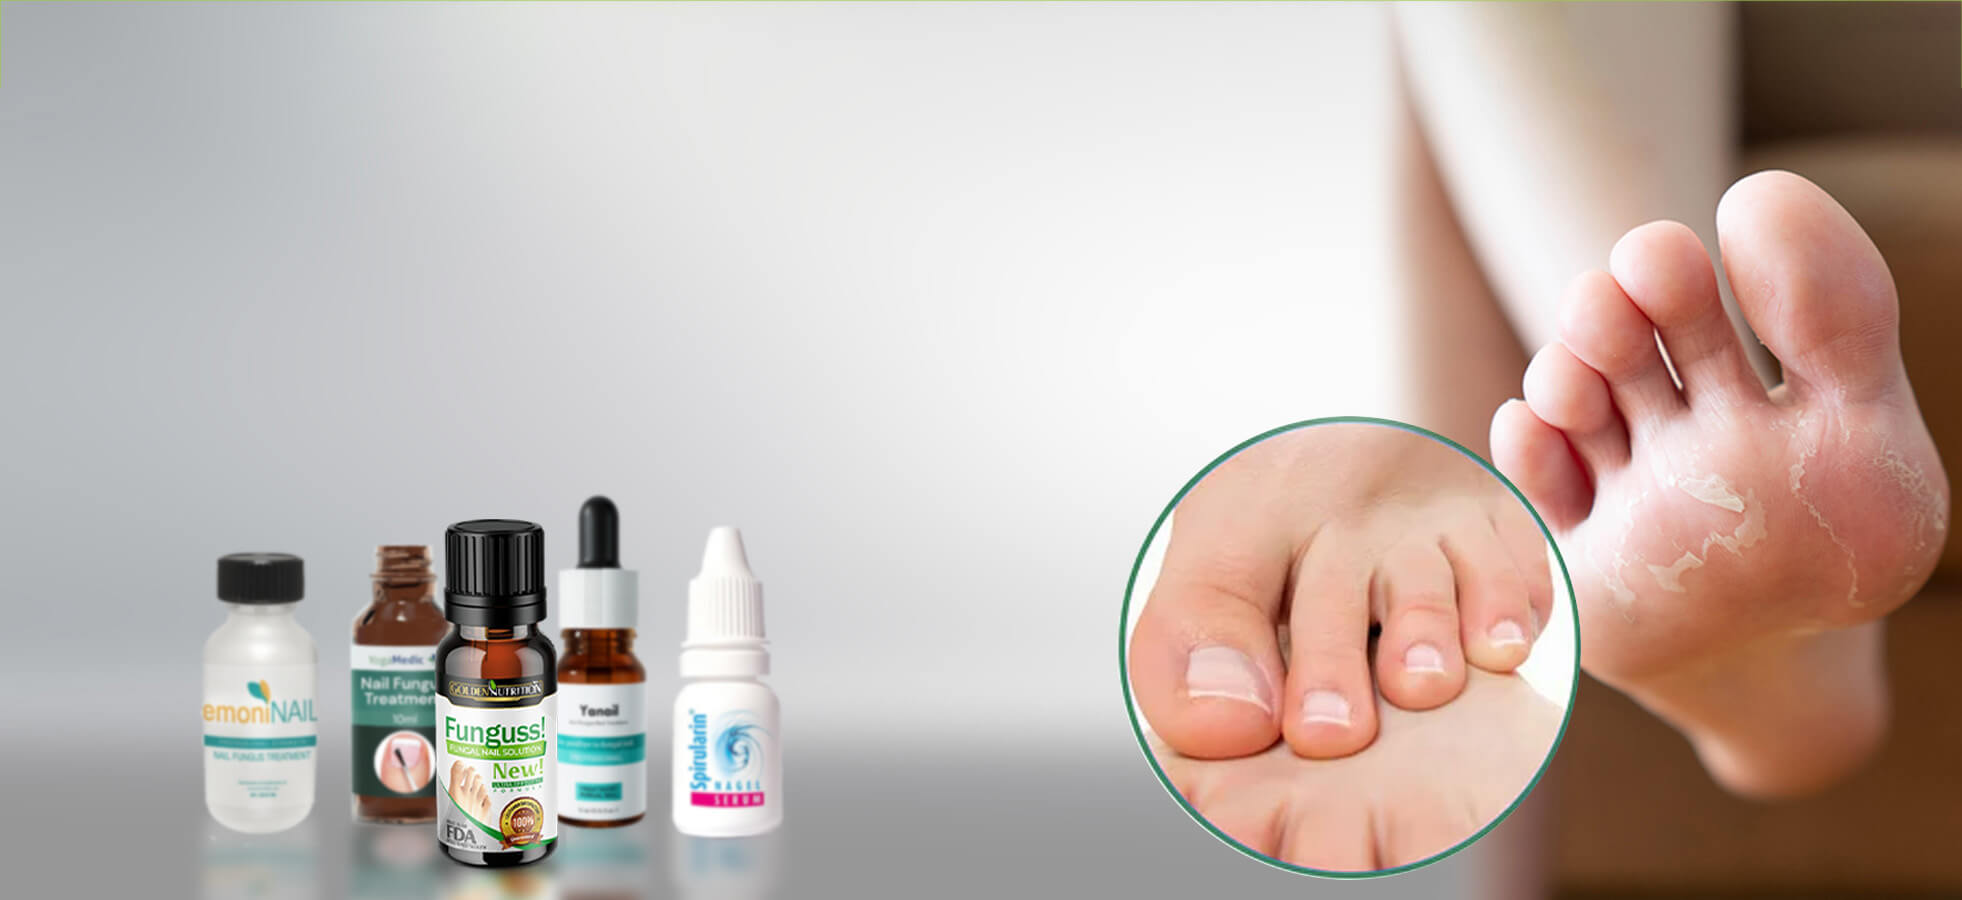
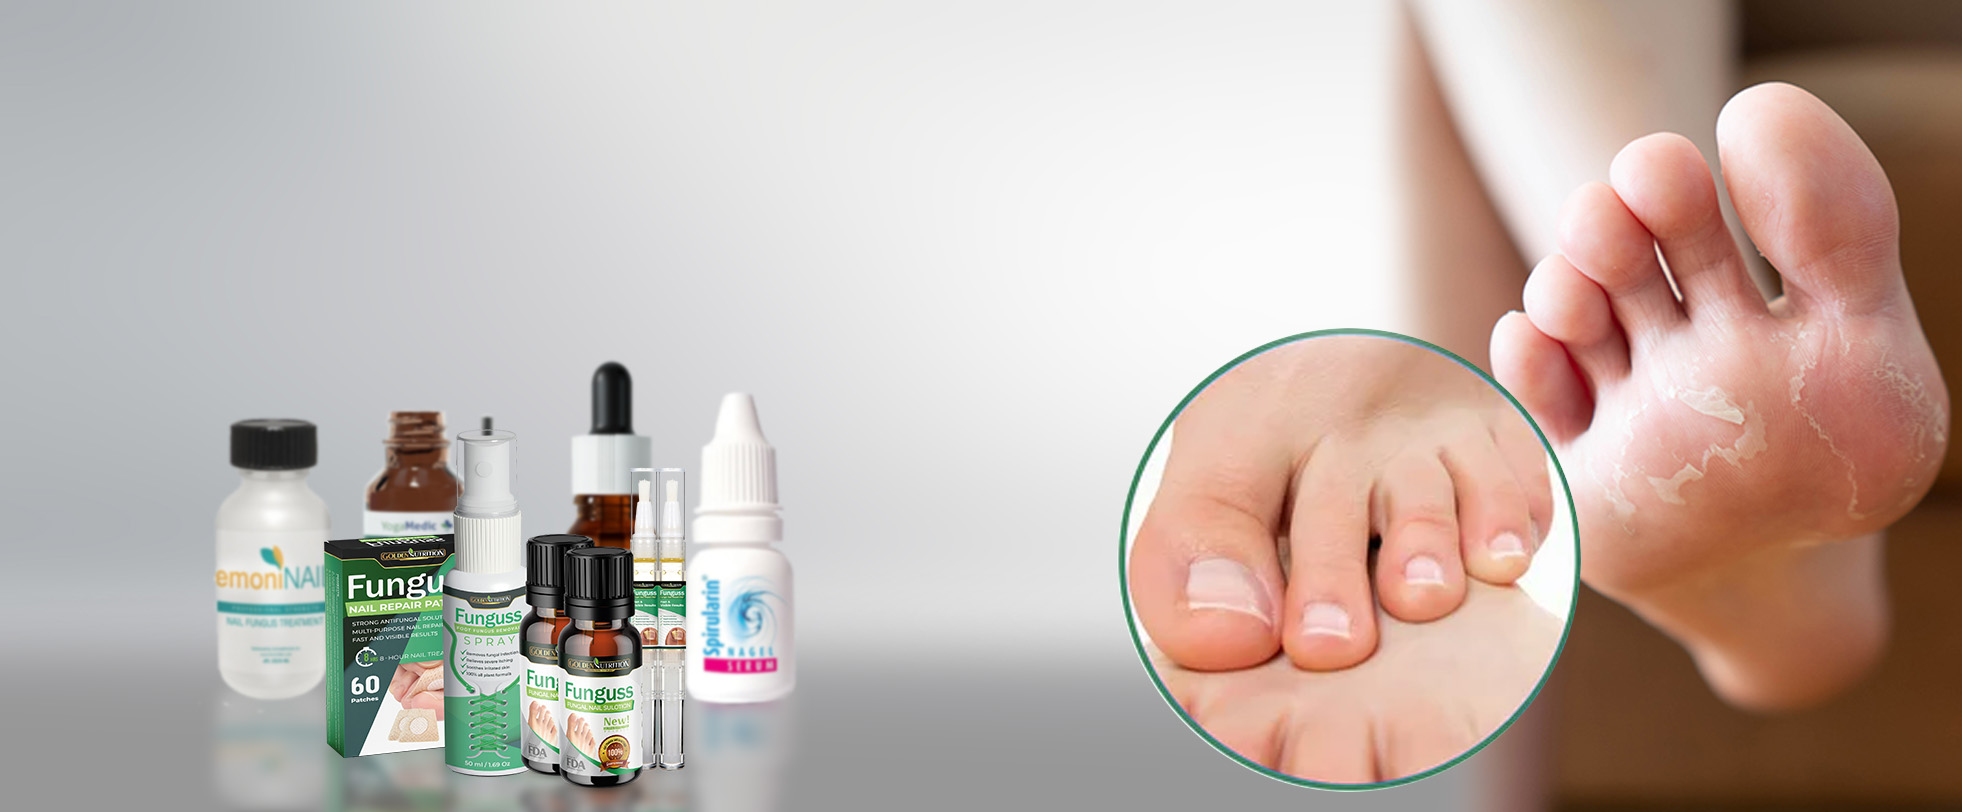
Add the new info for all-in-one pack

Changed region(s): [[0.5596, 0.0, 1.0, 0.9852], [0.0933, 0.431, 0.4042, 1.0]]

diff --git a/src/components/main/ChosenProduct/chosenProduct.jsx b/src/components/main/ChosenProduct/chosenProduct.jsx
@@ -45,7 +45,7 @@ const ChosenProduct = () => {
                         <CardMedia
                             component="img"
                             height="170"
-                            image='funguss.png'
+                            image='funguss.webp'
                             alt='Golden Nutrition Funguss'
                             sx={{
                                 width: "90%",
@@ -74,7 +74,7 @@ const ChosenProduct = () => {
                             <Box sx={{ display: { xs: 'block', md: 'none' }, position: "fixed", right: "0px", bottom: "0px", left: "0px", backgroundColor: "rgba(45, 57, 40, .8)", padding: 2, borderRadius: "15px 15px 0 0 ", textAlign: 'center', zIndex: 3 }}>
                                 <CardMedia
                                     component="img"
-                                    image='funguss.png'
+                                    image='funguss.webp'
                                     alt='Golden Nutrition Funguss'
                                     sx={{
                                         width: "100px",

diff --git a/src/components/main/product/productText.jsx b/src/components/main/product/productText.jsx
@@ -17,13 +17,13 @@ const ProductText = ({ product }) => {
         <Box paddingTop={3}>
             <CustomBox>
                 {product.introduction.content.map((paragraph, index) => (
-                    <Typography key={index}>{perser(paragraph)}</Typography>
+                    <Typography key={index} >{perser(paragraph)}</Typography>
                 ))}
             </CustomBox>
             <CustomBox>
                 <Typography variant="h5">{product.formula.title}</Typography>
                 {product.formula.content.map((paragraph, index) => (
-                    <Typography key={index}>{perser(paragraph)}</Typography>
+                    <Typography key={index} sx={{pb: 1}}>{perser(paragraph)}</Typography>
                 ))}
             </CustomBox>
 

diff --git a/src/components/main/mainPage.jsx b/src/components/main/mainPage.jsx
@@ -26,7 +26,7 @@ const MainPage = () => {
 
 
       <DesktopHeader imgURL='headerphoto.jpg' text={<HeaderText />} specialist={<Specialist />} />
-      <MobileHeader imgURL='header-mobile.png' text={<TopTextMob />} specialist={<Specialist />} />
+      <MobileHeader imgURL='header-mobile.jpg' text={<TopTextMob />} specialist={<Specialist />} />
       <ArticleHeader />
       <Grid2 container>
         <Grid2 xs={0} md={.5} lg={1.8}>
